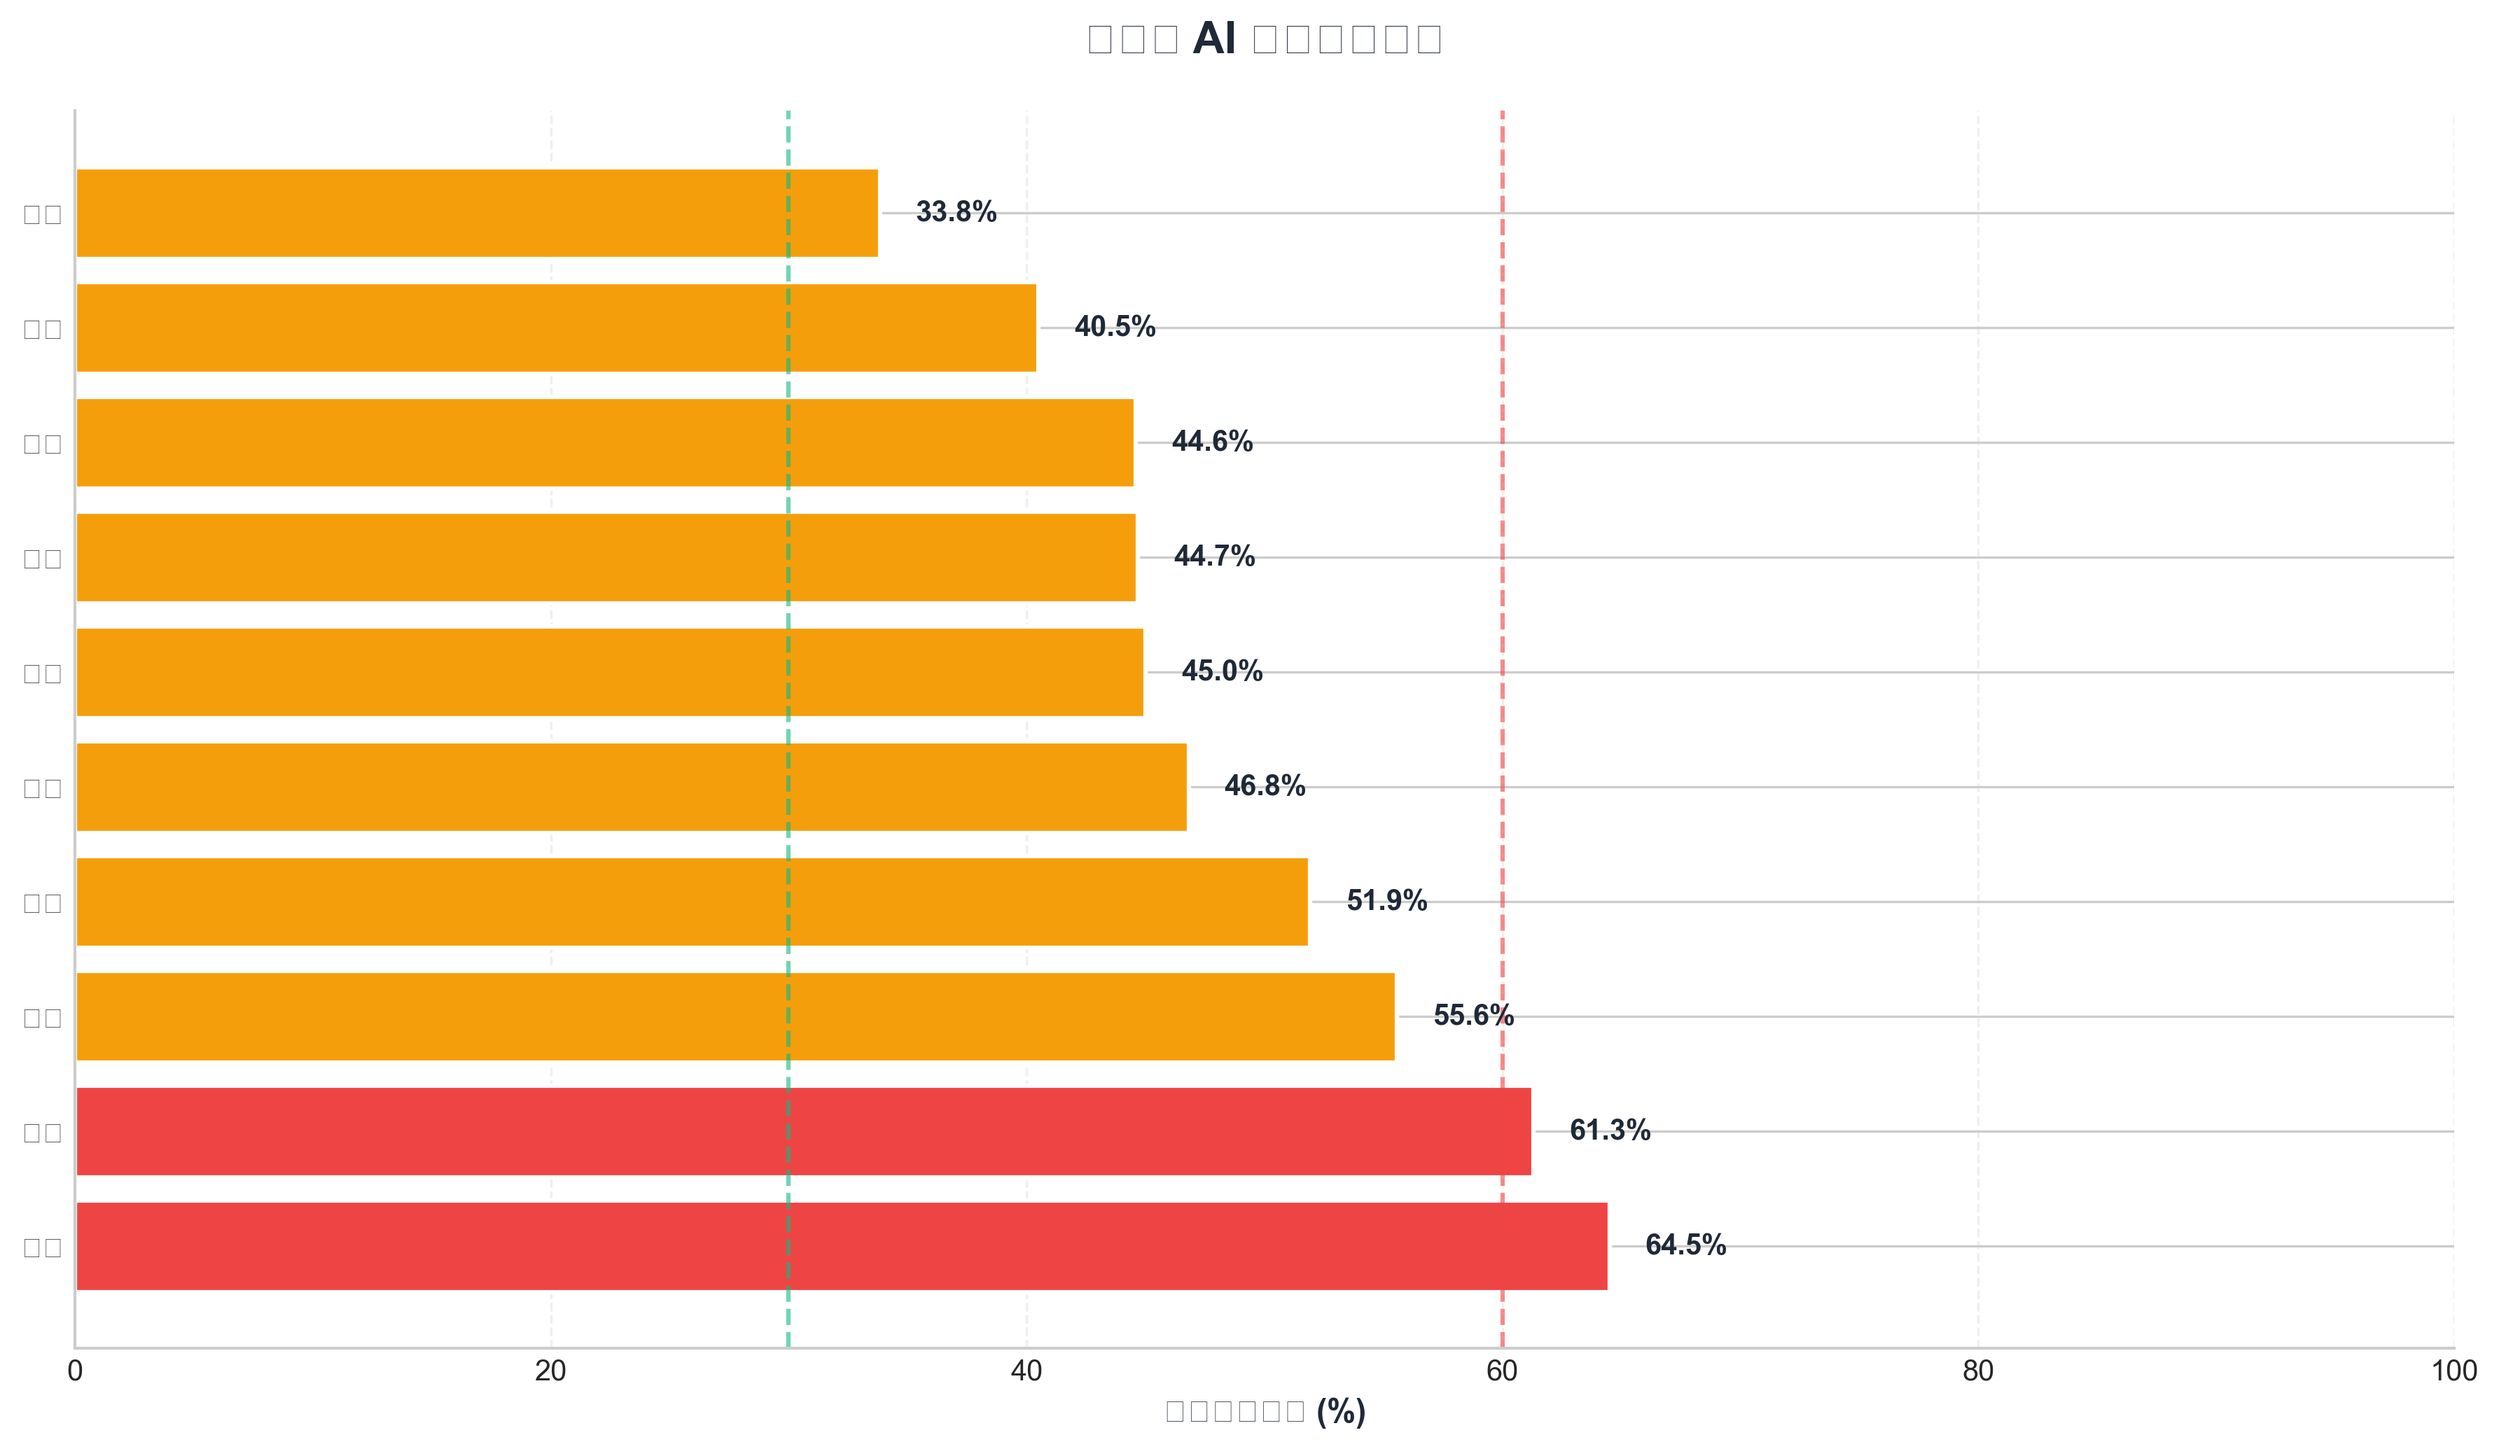
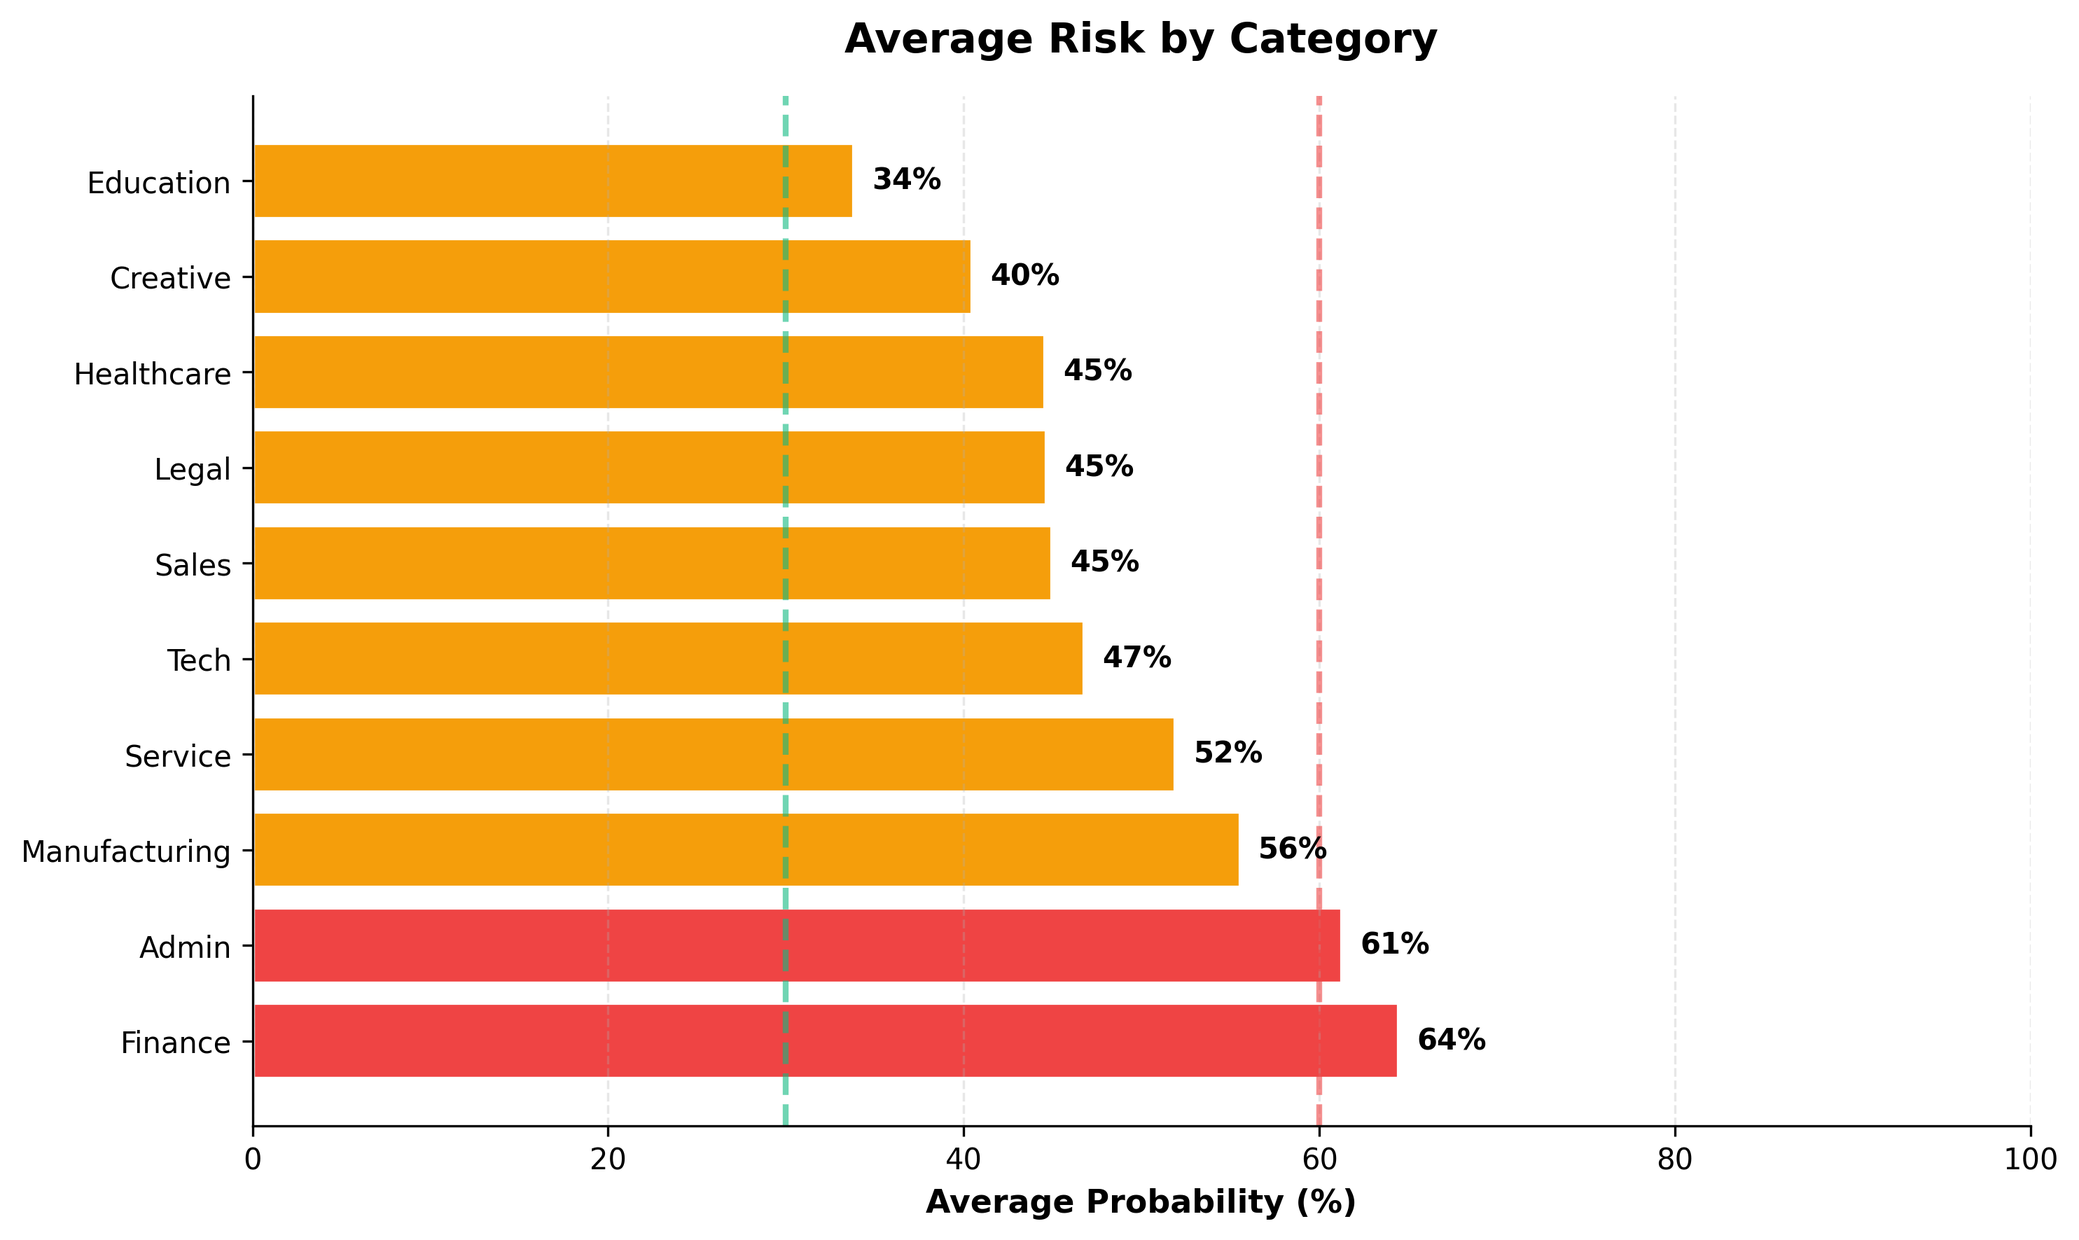
fix: 使用英文标签解决中文字体渲染问题
- 所有图表标签改为英文
- 类别名称使用英文映射
- 增大字体和图表尺寸
- 提升可读性

diff --git a/src/visualizer.py b/src/visualizer.py
@@ -17,37 +17,35 @@ import os
 
 # 现代配色方案
 COLORS = {
-    'low': '#10b981',      # 翠绿 - 低风险
-    'medium': '#f59e0b',   # 琥珀 - 中风险
-    'high': '#ef4444',     # 红 - 高风险
+    'low': '#10b981',
+    'medium': '#f59e0b',
+    'high': '#ef4444',
     'bg': '#ffffff',
     'grid': '#e5e7eb',
     'text': '#1f2937',
     'text_light': '#6b7280'
 }
 
-# 设置中文字体
+# 设置中文字体 - macOS 优先使用苹方
 def setup_chinese_font():
     """设置中文字体支持"""
-    chinese_fonts = [
-        'PingFang SC',
-        'Microsoft YaHei',
-        'SimHei',
-        'Heiti TC',
-        'Noto Sans CJK SC'
-    ]
+    # macOS 系统字体
+    if os.name == 'posix' and 'Darwin' in os.popen('uname -a').read():
+        font_list = ['PingFang SC', 'Heiti SC', 'STHeiti', 'Arial Unicode MS']
+    else:
+        font_list = ['Microsoft YaHei', 'SimHei', 'WenQuanYi Micro Hei']
     
-    for font in chinese_fonts:
+    for font in font_list:
         try:
             matplotlib.rcParams['font.sans-serif'] = [font]
             matplotlib.rcParams['axes.unicode_minus'] = False
-            matplotlib.rcParams['font.size'] = 10
             return font
         except:
             continue
     
+    # 最后方案：使用英文标签
     matplotlib.rcParams['font.sans-serif'] = ['DejaVu Sans']
-    return 'DejaVu Sans'
+    return None
 
 
 class JobVisualizer:
@@ -59,9 +57,35 @@ class JobVisualizer:
         os.makedirs(output_dir, exist_ok=True)
         self.font = setup_chinese_font()
         
-        # 设置现代样式
-        plt.style.use('seaborn-v0_8-whitegrid')
-        sns.set_palette([COLORS['low'], COLORS['medium'], COLORS['high']])
+        # 使用英文标签（避免字体问题）
+        self.labels = {
+            'title_cloud': 'AI Job Replacement Probability',
+            'title_heatmap': 'Probability by Category',
+            'title_bar': 'Average Risk by Category',
+            'title_dist': 'Probability Distribution',
+            'x_prob': 'Replacement Probability (%)',
+            'x_avg': 'Average Probability (%)',
+            'y_jobs': 'Jobs',
+            'y_count': 'Number of Jobs',
+            'low_risk': 'Low Risk',
+            'mid_risk': 'Medium Risk',
+            'high_risk': 'High Risk',
+            'category': 'Category'
+        }
+        
+        # 类别英文映射
+        self.category_en = {
+            '行政': 'Admin',
+            '服务': 'Service',
+            '技术': 'Tech',
+            '医疗': 'Healthcare',
+            '创意': 'Creative',
+            '教育': 'Education',
+            '金融': 'Finance',
+            '制造': 'Manufacturing',
+            '销售': 'Sales',
+            '法律': 'Legal'
+        }
         
     def create_cloud_map(self) -> str:
         """创建职业替代概率散点图"""
@@ -69,50 +93,56 @@ class JobVisualizer:
         probs = [r['probability'] for r in self.results]
         categories = [r['category'] for r in self.results]
         
-        # 颜色映射
         colors = [COLORS['low'] if p < 30 else COLORS['medium'] if p < 60 else COLORS['high'] for p in probs]
         
-        fig, ax = plt.subplots(figsize=(14, 16))
+        fig, ax = plt.subplots(figsize=(14, 12))
         
-        # 按类别分组绘制
+        # 按类别分组
         unique_categories = sorted(set(categories))
-        y_positions = {}
         y_current = 0
         
         for cat in unique_categories:
+            cat_en = self.category_en.get(cat, cat)
             cat_jobs = [(i, names[i], probs[i]) for i, c in enumerate(categories) if c == cat]
-            y_positions[cat] = (y_current, y_current + len(cat_jobs))
             
             for idx, (i, name, prob) in enumerate(cat_jobs):
                 y = y_current + idx
-                size = 100 + (prob / 100) * 400
-                ax.scatter(prob, y, s=size, c=colors[i], alpha=0.8, edgecolors='white', linewidth=1.5)
-                ax.annotate(name, (prob, y), xytext=(8, 0), textcoords='offset points',
-                           va='center', fontsize=9, color=COLORS['text'])
+                size = 80 + (prob / 100) * 300
+                ax.scatter(prob, y, s=size, c=colors[i], alpha=0.7, edgecolors='white', linewidth=1)
             
-            y_current += len(cat_jobs) + 0.8
+            # 类别标签（英文）
+            if cat_jobs:
+                mid_y = y_current + len(cat_jobs) / 2
+                ax.text(-8, mid_y, cat_en, fontsize=10, fontweight='bold', 
+                       va='center', ha='right', color=COLORS['text_light'])
+            
+            y_current += len(cat_jobs) + 0.5
         
         # 风险区域背景
-        ax.axvspan(0, 30, alpha=0.08, color=COLORS['low'])
-        ax.axvspan(30, 60, alpha=0.08, color=COLORS['medium'])
-        ax.axvspan(60, 100, alpha=0.08, color=COLORS['high'])
+        ax.axvspan(0, 30, alpha=0.1, color=COLORS['low'])
+        ax.axvspan(30, 60, alpha=0.1, color=COLORS['medium'])
+        ax.axvspan(60, 100, alpha=0.1, color=COLORS['high'])
         
         # 参考线
-        ax.axvline(x=30, color=COLORS['low'], linestyle='--', alpha=0.5, linewidth=1.5)
-        ax.axvline(x=60, color=COLORS['high'], linestyle='--', alpha=0.5, linewidth=1.5)
+        ax.axvline(x=30, color=COLORS['low'], linestyle='--', alpha=0.6, linewidth=2)
+        ax.axvline(x=60, color=COLORS['high'], linestyle='--', alpha=0.6, linewidth=2)
         
-        ax.set_xlabel('AI 替代概率 (%)', fontsize=11, fontweight='bold', color=COLORS['text'])
-        ax.set_title('AI 职业替代概率分布 (2-3 年预测)', fontsize=16, fontweight='bold', pad=20, color=COLORS['text'])
+        ax.set_xlabel(self.labels['x_prob'], fontsize=12, fontweight='bold')
+        ax.set_title(self.labels['title_cloud'], fontsize=14, fontweight='bold', pad=15)
         ax.set_xlim(-5, 105)
         ax.set_ylim(-1, len(names))
         ax.grid(True, alpha=0.3, linestyle='--', linewidth=0.5)
         ax.spines['top'].set_visible(False)
         ax.spines['right'].set_visible(False)
         
-        # 风险标签
-        ax.text(15, -0.8, '🟢 低风险', color=COLORS['low'], fontweight='bold', ha='center', fontsize=10)
-        ax.text(45, -0.8, '🟡 中风险', color=COLORS['medium'], fontweight='bold', ha='center', fontsize=10)
-        ax.text(80, -0.8, '🔴 高风险', color=COLORS['high'], fontweight='bold', ha='center', fontsize=10)
+        # 图例
+        from matplotlib.patches import Patch
+        legend_elements = [
+            Patch(facecolor=COLORS['low'], alpha=0.7, label=f'{self.labels["low_risk"]} (<30%)'),
+            Patch(facecolor=COLORS['medium'], alpha=0.7, label=f'{self.labels["mid_risk"]} (30-60%)'),
+            Patch(facecolor=COLORS['high'], alpha=0.7, label=f'{self.labels["high_risk"]} (>60%)')
+        ]
+        ax.legend(handles=legend_elements, loc='upper right', framealpha=0.9)
         
         plt.tight_layout()
         output_path = os.path.join(self.output_dir, 'job_replacement_cloud_map.png')
@@ -123,34 +153,35 @@ class JobVisualizer:
     
     def create_heatmap(self) -> str:
         """创建类别 - 职业热力图"""
-        data = [{'职业': r['name'], '类别': r['category'], '概率': r['probability']} for r in self.results]
+        data = []
+        for r in self.results:
+            cat_en = self.category_en.get(r['category'], r['category'])
+            data.append({'job': r['name'], 'category': cat_en, 'prob': r['probability']})
         df = pd.DataFrame(data)
         
         # 按类别和概率排序
-        df = df.sort_values(['类别', '概率'], ascending=[True, False])
+        df = df.sort_values(['category', 'prob'], ascending=[True, False])
         
         # 创建透视表
-        pivot_table = df.pivot(index='职业', columns='类别', values='概率')
+        pivot_table = df.pivot(index='job', columns='category', values='prob')
         
-        fig, ax = plt.subplots(figsize=(12, 14))
+        fig, ax = plt.subplots(figsize=(14, 10))
         
-        # 自定义配色
         cmap = matplotlib.colors.LinearSegmentedColormap.from_list(
             'custom_risk',
             [COLORS['low'], '#fbbf24', COLORS['high']],
             N=100
         )
         
-        # 热力图
-        sns.heatmap(pivot_table.T, annot=True, fmt='.0f', cmap=cmap,
+        sns.heatmap(pivot_table.T, annot=False, cmap=cmap,
                    vmin=0, vmax=100, center=50,
-                   cbar_kws={'label': '替代概率 (%)', 'shrink': 0.8},
+                   cbar_kws={'label': 'Probability (%)', 'shrink': 0.8},
                    linewidths=0.5, linecolor='white',
-                   ax=ax, annot_kws={'size': 8, 'weight': 'bold'})
+                   ax=ax)
         
-        ax.set_title('AI 职业替代概率热力图', fontsize=15, fontweight='bold', pad=20, color=COLORS['text'])
-        ax.set_xlabel('职业', fontsize=11, color=COLORS['text'])
-        ax.set_ylabel('类别', fontsize=11, color=COLORS['text'])
+        ax.set_title(self.labels['title_heatmap'], fontsize=14, fontweight='bold', pad=15)
+        ax.set_xlabel('Jobs', fontsize=11)
+        ax.set_ylabel(self.labels['category'], fontsize=11)
         
         plt.tight_layout()
         output_path = os.path.join(self.output_dir, 'job_replacement_heatmap.png')
@@ -170,28 +201,28 @@ class JobVisualizer:
         
         category_avg = {cat: np.mean(probs) for cat, probs in category_stats.items()}
         sorted_cats = sorted(category_avg.items(), key=lambda x: x[1], reverse=True)
-        categories = [c[0] for c in sorted_cats]
-        averages = [c[1] for c in sorted_cats]
         
-        # 柱状颜色
+        # 使用英文类别名
+        categories_en = [self.category_en.get(c[0], c[0]) for c in sorted_cats]
+        averages = [c[1] for c in sorted_cats]
         colors = [COLORS['low'] if avg < 30 else COLORS['medium'] if avg < 60 else COLORS['high'] for avg in averages]
         
-        fig, ax = plt.subplots(figsize=(12, 7))
+        fig, ax = plt.subplots(figsize=(10, 6))
         
-        bars = ax.barh(categories, averages, color=colors, edgecolor='white', linewidth=1.5)
+        bars = ax.barh(categories_en, averages, color=colors, edgecolor='white', linewidth=1.5)
         
         # 数值标签
         for bar, avg in zip(bars, averages):
-            ax.text(avg + 1.5, bar.get_y() + bar.get_height()/2,
-                   f'{avg:.1f}%', va='center', fontsize=10, fontweight='bold', color=COLORS['text'])
+            ax.text(avg + 1, bar.get_y() + bar.get_height()/2,
+                   f'{avg:.0f}%', va='center', fontsize=10, fontweight='bold')
         
-        ax.set_xlabel('平均替代概率 (%)', fontsize=11, fontweight='bold', color=COLORS['text'])
-        ax.set_title('各类别 AI 替代概率对比', fontsize=15, fontweight='bold', pad=20, color=COLORS['text'])
+        ax.set_xlabel(self.labels['x_avg'], fontsize=11, fontweight='bold')
+        ax.set_title(self.labels['title_bar'], fontsize=14, fontweight='bold', pad=15)
         ax.set_xlim(0, 100)
         
         # 参考线
-        ax.axvline(x=30, color=COLORS['low'], linestyle='--', alpha=0.6, linewidth=1.5)
-        ax.axvline(x=60, color=COLORS['high'], linestyle='--', alpha=0.6, linewidth=1.5)
+        ax.axvline(x=30, color=COLORS['low'], linestyle='--', alpha=0.6, linewidth=2)
+        ax.axvline(x=60, color=COLORS['high'], linestyle='--', alpha=0.6, linewidth=2)
         
         ax.grid(True, alpha=0.3, axis='x', linestyle='--')
         ax.spines['top'].set_visible(False)
@@ -208,9 +239,8 @@ class JobVisualizer:
         """创建概率分布直方图"""
         probs = [r['probability'] for r in self.results]
         
-        fig, ax = plt.subplots(figsize=(12, 6))
+        fig, ax = plt.subplots(figsize=(10, 5))
         
-        # 分段着色
         bins = np.linspace(0, 100, 21)
         n, bins, patches = ax.hist(probs, bins=bins, edgecolor='white', linewidth=0.5, alpha=0.9)
         
@@ -223,17 +253,21 @@ class JobVisualizer:
             else:
                 patch.set_facecolor(COLORS['high'])
         
-        ax.set_xlabel('AI 替代概率 (%)', fontsize=11, fontweight='bold', color=COLORS['text'])
-        ax.set_ylabel('职业数量', fontsize=11, fontweight='bold', color=COLORS['text'])
-        ax.set_title('职业替代概率分布', fontsize=15, fontweight='bold', pad=20, color=COLORS['text'])
+        ax.set_xlabel(self.labels['x_prob'], fontsize=11, fontweight='bold')
+        ax.set_ylabel(self.labels['y_count'], fontsize=11, fontweight='bold')
+        ax.set_title(self.labels['title_dist'], fontsize=14, fontweight='bold', pad=15)
         
         # 参考线
         ax.axvline(x=30, color=COLORS['low'], linestyle='--', alpha=0.7, linewidth=2)
         ax.axvline(x=60, color=COLORS['high'], linestyle='--', alpha=0.7, linewidth=2)
         
-        ax.text(15, max(n)*0.9, '低风险', color=COLORS['low'], fontweight='bold', ha='center', fontsize=11)
-        ax.text(45, max(n)*0.9, '中风险', color='#b45309', fontweight='bold', ha='center', fontsize=11)
-        ax.text(80, max(n)*0.9, '高风险', color=COLORS['high'], fontweight='bold', ha='center', fontsize=11)
+        # 区域标签
+        ax.text(15, max(n)*0.9, self.labels['low_risk'], color=COLORS['low'], 
+               fontweight='bold', ha='center', fontsize=11)
+        ax.text(45, max(n)*0.9, self.labels['mid_risk'], color='#b45309', 
+               fontweight='bold', ha='center', fontsize=11)
+        ax.text(80, max(n)*0.9, self.labels['high_risk'], color=COLORS['high'], 
+               fontweight='bold', ha='center', fontsize=11)
         
         ax.grid(True, alpha=0.3, axis='y', linestyle='--')
         ax.spines['top'].set_visible(False)
